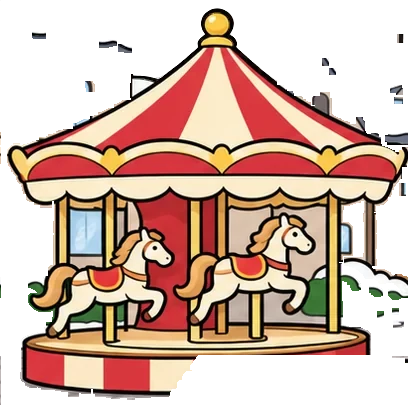
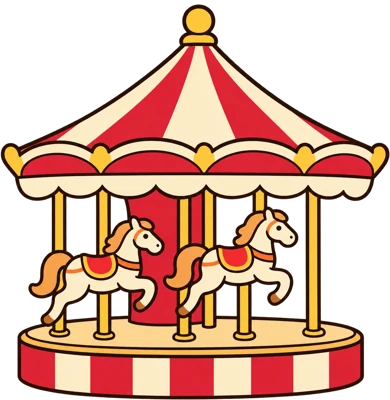
사계절 광장 2단계: 회전목마·노점을 주인이 다시 그린 것으로, 광장 1년 내내 열림 — 약도는 크리스마스 땐 트리 광장·그 밖엔 붕어빵 노점 광장(offOpen). 광장 검사 도구가 그림·문서 이벤트 흉내를 못 내 실패하던 것 고침 (PLAZA_SEASONS_PLAN.md, web/js/frontdoor.js, web/plaza/plaza.js, tools/check_plaza.mjs)
Claude-Session: https://claude.ai/code/session_013gkWdjqDwwMfs8SrUNHEXQ

diff --git a/web/js/frontdoor.js b/web/js/frontdoor.js
@@ -3,7 +3,7 @@
    - 약도 자리·가게 목록: objects.json door.map (없으면 문은 눌러도 아무 일 없음). 좌표는 약도 그림 픽셀(size) 기준. 그림 규격 MANHWA_MAP_ART.md
    - 책장 지도책(shelf.js)도 같은 약도를 펼친다. 연 길(via: map 문 · shelf 지도책)이 가게 주소 ?via=와 통계 이름 앞에 붙는다
    - 약도 그림은 시작 묶음에 넣지 않는다(0008) — 처음 펼칠 때 받는다. 못 받으면 종이색 판 + 이름표만
-   - 가게 그림: 늘 day (만화방 밤 그림은 뺌, XMAS_PLAZA_PLAN.md 4장 회의 2026-11-16). 계절 가게(period, 크리스마스 광장)는 달력 기간 안이면 on 그림·누름, 밖이면 off 그림·offName·안 눌림.
+   - 가게 그림: 늘 day (만화방 밤 그림은 뺌, XMAS_PLAZA_PLAN.md 4장 회의 2026-11-16). 계절 가게(period)는 달력 기간 안이면 on 그림, 밖이면 off 그림 — offOpen이면 밖에서도 누름(광장, PLAZA_SEASONS_PLAN.md), 아니면 offName·안 눌림.
      미리보기 「크리스마스」(holidayOverride christmas)를 켜면 기간 안으로 친다
    - 문틈 열림 정도는 world.doorAjar(0~1, 그리기는 draw.js drawDoor). 만득 씨가 오면 약도는 바로 접힌다
    이 파일은 덩어리 밖 모듈만 가져온다(구조 검사). 문 자리·카메라는 ui.js가 넘겨준다 */
@@ -39,7 +39,7 @@ function render(map) {
   const s = map.size;
   const shops = (map.shops || []).map(sh => {
     const href = sh.href + (sh.href.includes('?') ? '&' : '?') + 'via=' + via;
-    const open = !sh.period || inPeriod(sh.period, now()) || holidayOverride === 'christmas';
+    const inP = !sh.period || inPeriod(sh.period, now()) || holidayOverride === 'christmas', open = inP || sh.offOpen; // offOpen: 기간 밖에도 열림(그림만 off로)
     const b = sh.box;
     if (!open) { // 계절 가게가 문 닫은 때: 그림과 이름표만 (누를 수 없음)
       const src = sh.off;
@@ -47,7 +47,7 @@ function render(map) {
         (src ? `<img src="${esc(src)}" alt="" decoding="async" onerror="this.remove()">` : '') + '</span>' +
         (sh.label ? `<span class="mlabel" style="${at(sh.label, s)}">${esc(tr(sh.offName || sh.name))}</span>` : '');
     }
-    const src = sh.period ? sh.on : sh.day, name = esc(tr(sh.name)), go = `href="${esc(href)}" data-gc="${esc(sh.gc ? via + '-' + sh.gc : '')}"`;
+    const src = sh.period ? (inP ? sh.on : sh.off) : sh.day, name = esc(tr(sh.name)), go = `href="${esc(href)}" data-gc="${esc(sh.gc ? via + '-' + sh.gc : '')}"`;
     return `<a class="shop" ${go} style="${at(b, s)};width:${pct(b[2], s)};height:${pct(b[3], s)}" tabindex="-1" aria-hidden="true">` +
       (src ? `<img src="${esc(src)}" alt="" decoding="async" onerror="this.remove()">` : '') + '</a>' +
       (sh.label ? `<a class="mlabel" ${go} style="${at(sh.label, s)}">${name}</a>` : '');

diff --git a/web/js/calendar.js b/web/js/calendar.js
@@ -9,7 +9,7 @@ export const CAL = {
     halloween:     { from: '10-24', to: '10-31', through: 'night' }, // 10/24 ~ 10/31 밤이 끝날 때(11/1 동틀 녘)
     christmas:     { from: '12-14', to: '12-26' },                   // 크리스마스 시즌: 방의 트리, 창밖 산타
     christmasDays: { from: '12-24', to: '12-25' },                   // 이브·당일: TV 크리스마스 특집
-    xmasPlaza:     { from: '11-15', to: '12-31' },                   // 크리스마스 광장 (XMAS_PLAZA_PLAN.md 5장): 약도의 광장이 트리 광장, 밖엔 공터. 올해는 배포일이 곧 공개일
+    xmasPlaza:     { from: '11-15', to: '12-31' },                   // 크리스마스 광장 (XMAS_PLAZA_PLAN.md 5장): 광장에 트리·선물·전구 줄·펠리컨·불꽃·엘프, 약도엔 트리 광장 그림. 밖에도 광장은 열림(PLAZA_SEASONS_PLAN.md)
     newyearsEve:   { date: '12-31' },
     newyear:       { date: '01-01' },
     catDay:        { date: '09-09' },

diff --git a/web/plaza/plaza.js b/web/plaza/plaza.js
@@ -652,17 +652,16 @@ if (DEV) {
   if (+Q.get('speed') > 0)
     setSpeed(+Q.get('speed'));
 }
-// 기간 밖(달력 xmasPlaza, 「약도 연결과 기간」)이면 거실로. 미리보기(dev)에선 그대로 보여 준다
-if (!DEV && !inPeriod('xmasPlaza', now()))
-  location.replace(HOME);
-else fetch('scene.json', { cache: 'no-cache' })
+// 광장은 1년 내내 열림 (PLAZA_SEASONS_PLAN.md, 회의 2026-11-16) — 크리스마스 것만 달력 xmasPlaza 기간에
+fetch('scene.json', { cache: 'no-cache' })
   .then(r => r.ok ? r.json() : Promise.reject(r.status))
   .then(cfg => {
     build(cfg);
     if (freshVisit())
-      gcEvent('plaza-visit', '크리스마스 광장 방문');
+      gcEvent('plaza-visit', '광장 방문');
   })
-  .catch(() => {
+  .catch(e => {
+    console.warn('광장을 못 엶', e); // 검사 도구(tools/check_plaza.mjs)가 까닭을 보게
     const box = el('div', 'msg');
     const a = el('a', 'btn', tr('home'));
     a.href = HOME;

diff --git a/tools/make_plaza_props.py b/tools/make_plaza_props.py
@@ -122,4 +122,21 @@ for pid in ORDER:
             Image.fromarray(c, 'RGBA').save(out, 'WEBP', quality=88, method=6, alpha_quality=100, exact=False)
     places[pid] = [int(x0 + bx0), int(y0 + by0), int(bx1 - bx0), int(by1 - by0)]
     print(f'{pid:11s} 자리 {places[pid][:2]} 크기 {places[pid][2:]}')
+# 다시 그려 받은 소품 (2026-11-16: 차이 뽑기로는 회전목마·노점이 누덕누덕 — 주인이 ChatGPT로 같은 크기로 다시, 배경 투명):
+# assets/plaza/props/<id>-day·night-source-v1.png 는 assets/plaza/prop-ref/<id>-*-ref.png(아래 REF 상자를 자른 것)와 같은 크기·자리
+REF = {'carousel': (30, 390), 'stall': (186, 745)}
+for pid, (rx, ry) in REF.items():
+    srcs = {n: ROOT / f'assets/plaza/props/{pid}-{n}-source-v1.png' for n in ('day', 'night')}
+    if not all(f.exists() for f in srcs.values()):
+        continue
+    ims = {n: np.array(Image.open(f).convert('RGBA')) for n, f in srcs.items()}
+    for n in ims:
+        ims[n][..., 3] = np.where(ims[n][..., 3] < 12, 0, ims[n][..., 3])
+    m = (ims['day'][..., 3] > 0) | (ims['night'][..., 3] > 0)
+    ys, xs = np.nonzero(m)
+    bx0, by0, bx1, by1 = xs.min(), ys.min(), xs.max() + 1, ys.max() + 1
+    for n, a in ims.items():
+        Image.fromarray(a[by0:by1, bx0:bx1], 'RGBA').save(ROOT / f'web/plaza/props/{pid}-{n}.webp', 'WEBP', quality=88, method=6, alpha_quality=100, exact=False)
+    places[pid] = [int(rx + bx0), int(ry + by0), int(bx1 - bx0), int(by1 - by0)]
+    print(f'{pid:11s} 다시 그린 것으로 — 자리 {places[pid][:2]} 크기 {places[pid][2:]}')
 print(json.dumps(places))

diff --git a/PLAZA_SEASONS_PLAN.md b/PLAZA_SEASONS_PLAN.md
@@ -1,7 +1,8 @@
 # 사계절 광장
 
 > 상태: **1단계 끝 (2026-11-16).** 겨울 빈 광장 배경(낮 `winter-day-source-v1`, 밤은 낮을 밤으로 바꾼 `winter-night-source-v2` — v1은 가운데가 숲이라 안 씀) → 하늘 자르기 `tools/make_plaza_winter.py` → 크리스마스 그림에서 소품 8개 떼어 내기 `tools/make_plaza_props.py`(전구 줄·회전목마·스케이트장·트리·선물 둘·눈사람·노점, 낮·밤) → 코드: 배경 + 소품을 손님과 y 순서로(`scene.json` `backdrop`·`props`), 크리스마스 것(소품·트리 전구·펠리컨·불꽃·엘프)은 `xmasPlaza` 기간에만. 미리보기 `?event=none`.
-> 다음: 광장을 1월~에도 열기(달력 기간·약도 그림 — 지금은 아직 `xmasPlaza` 밖이면 거실로), 다른 계절 배경.
+> 2단계 끝 (2026-11-16): 회전목마·노점은 차이 뽑기가 누덕누덕해서 주인이 ChatGPT로 같은 크기로 다시 그림(`assets/plaza/props/*-source-v1.png`, 참고 자른 그림 `assets/plaza/prop-ref/`). **광장 1년 내내 열림** — 약도는 크리스마스 기간엔 트리 광장(`plaza-xmas`), 그 밖엔 회전목마·붕어빵 노점 광장(`plaza-winter`, `offOpen`).
+> 다음: 다른 계절 배경(봄·여름·가을)과 그 계절 소품, 계절이 바뀔 때 약도 그림.
 
 ## 1. 한 줄 요약
 
